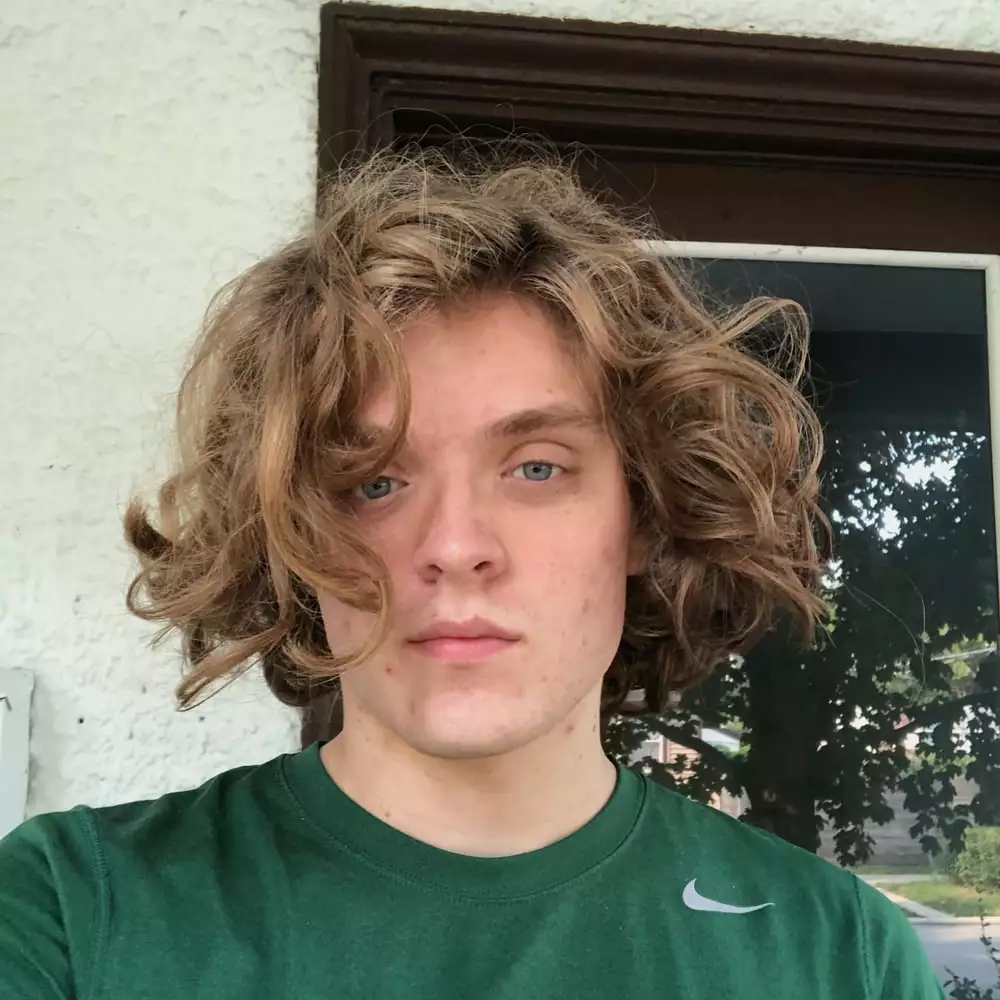
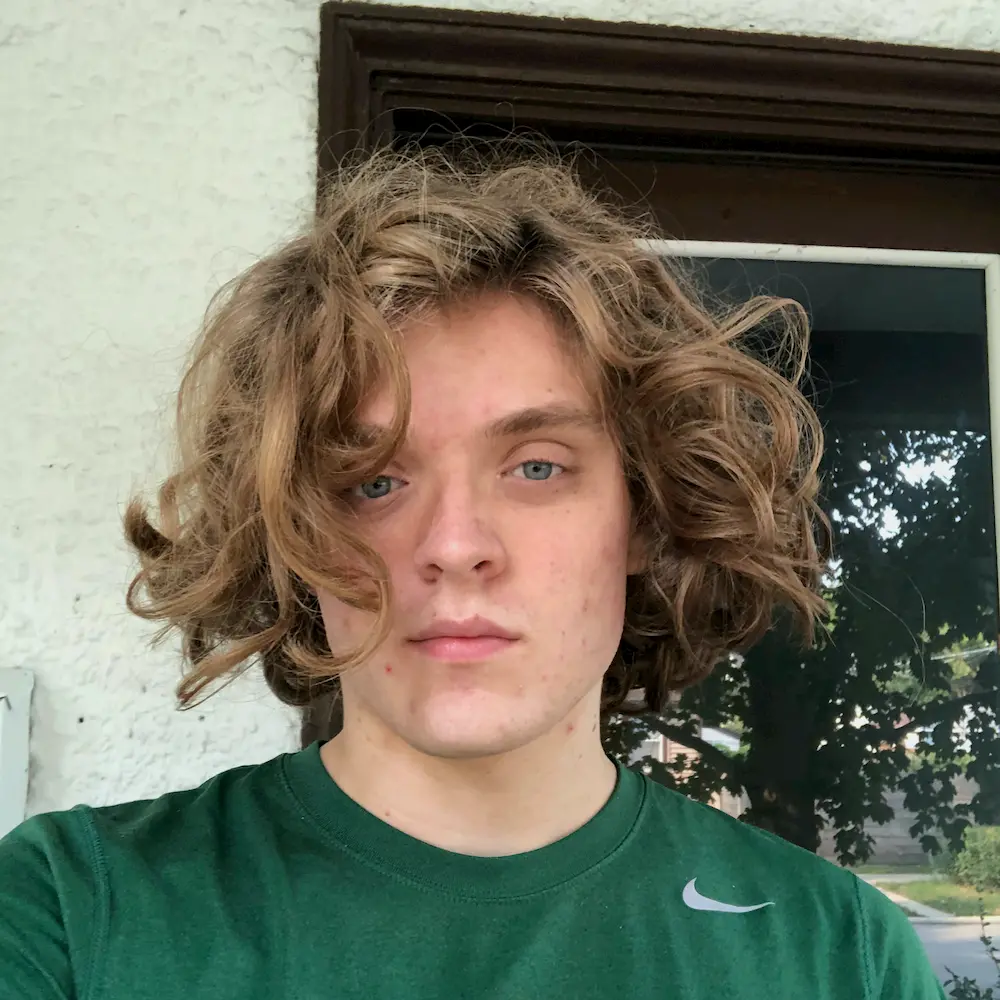
Removed <picture> redundency

diff --git a/_posts/2018-04-17-affixionary.md b/_posts/2018-04-17-affixionary.md
@@ -11,32 +11,28 @@ Affixionary is a dictionary of prefixes that I have been working on for about th
 
 <picture>
 <source srcset="{{ site.baseurl }}/assets/images/affixionary/homepage.webp" type="image/webp" loading="lazy">
-<source srcset="{{ site.baseurl }}/assets/images/affixionary/homepage.png" type="image/png" loading="lazy">
-<img alt="The about page of affixionary.com" src="{{ site.baseurl }}/assets/images/affixionary/homepage.png" loading="lazy">
+<img src="{{ site.baseurl }}/assets/images/affixionary/homepage.png" alt="The about page of affixionary.com" loading="lazy">
 </picture>
 
 Above is the picture of the current homepage of Affixionary. It is built on Wordpress partially because when I started this project it was the platform I understood the best and I had a adequate knowledge of php.
 
 <picture>
 <source srcset="{{ site.baseurl }}/assets/images/affixionary/ante-definition.webp" type="image/webp" loading="lazy">
-<source srcset="{{ site.baseurl }}/assets/images/affixionary/ante-definition.png" type="image/png" loading="lazy">
-<img alt="A sample prefix definition: ante" src="{{ site.baseurl }}/assets/images/affixionary/ante-definition.png" loading="lazy">
+<img src="{{ site.baseurl }}/assets/images/affixionary/ante-definition.png" alt="A sample prefix definition: ante" loading="lazy">
 </picture>
 
 Every prefix has a definition, example sentence, example word, and visual to help learners.
 
 <picture>
 <source srcset="{{ site.baseurl }}/assets/images/affixionary/about.webp" type="image/webp" loading="lazy">
-<source srcset="{{ site.baseurl }}/assets/images/affixionary/about.png" type="image/png" loading="lazy">
-<img alt="A page on affiionary that teaches about prefixes" src="{{ site.baseurl }}/assets/images/affixionary/about.png" loading="lazy">
+<img src="{{ site.baseurl }}/assets/images/affixionary/about.png" alt="A page on affiionary that teaches about prefixes" loading="lazy">
 </picture>
 
 There is also a section with a rough overview of how prefixes work.
 
 <picture>
 <source srcset="{{ site.baseurl }}/assets/images/affixionary/neo-definition.webp" type="image/webp" loading="lazy">
-<source srcset="{{ site.baseurl }}/assets/images/affixionary/neo-definition.png" type="image/png" loading="lazy">
-<img alt="A sample prefix definition: neo" src="{{ site.baseurl }}/assets/images/affixionary/neo-definition.png" loading="lazy">
+<img src="{{ site.baseurl }}/assets/images/affixionary/neo-definition.png" alt="A sample prefix definition: neo" loading="lazy">
 </picture>
 
 This is still a work-in-progress, but I have not had a chance to work on it recently. The next big project is to add more prefixes and start on suffixes. I then want to make the search functionality on the website much more clear as well as autocomplete and auto-return results. Further down the pipeline I would like to move it off Wordpress and make a publicly callable api.

diff --git a/index.md b/index.md
@@ -12,8 +12,7 @@ I currently live in Chicago, but prior to living here, I lived in Tokyo, Japan. 
 
 <picture>
 <source srcset="{{ site.baseurl }}/assets/images/profile-picture.webp" type="image/webp" class="cover">
-<source srcset="{{ site.baseurl }}/assets/images/profile-picture.jpeg" type="image/jpeg" class="cover">
-<img alt="A picture of Dane before the first day of school." src="{{ site.baseurl }}/assets/images/profile-picture.jpeg" class="cover">
+<img src="{{ site.baseurl }}/assets/images/profile-picture.jpg" alt="A picture of Dane before the first day of school" class="cover">
 </picture>
 
 <strong>Fun Fact:</strong> As a Cyber Navigator, I helped at least 15 people get jobs, assisted with one divorce, edited one novel, saved one house, filed all kinds of taxes, and so much more.
